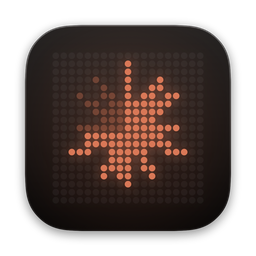
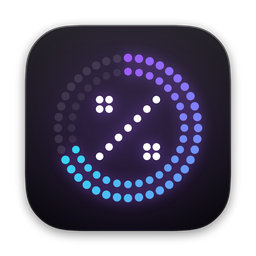
Ícone neutro: medidor de pontos roxo→ciano com % (não é o símbolo de nenhuma IA)

Changed region(s): [[0.1875, 0.1562, 0.8438, 0.8438]]

diff --git a/scripts/make-icon.swift b/scripts/make-icon.swift
@@ -3,7 +3,11 @@ import SwiftUI
 import AppKit
 
 let purple = Color(red: 0.62, green: 0.36, blue: 1.0)
-let claude = Color(red: 0.85, green: 0.47, blue: 0.34)   // terracota
+let cyan = Color(red: 0.20, green: 0.85, blue: 0.95)
+/// Roxo → ciano ao longo do anel.
+func mix(_ t: Double) -> Color {
+    Color(red: 0.62 + (0.20 - 0.62) * t, green: 0.36 + (0.85 - 0.36) * t, blue: 1.0 + (0.95 - 1.0) * t)
+}
 
 // "%" em 7×7 numa grade 11×11
 let glyph = ["##....#", "##...#.", "....#..", "...#...", "..#....", ".#...##", "#....##"]
@@ -20,7 +24,7 @@ struct DotIcon: View {
                 .fill(LinearGradient(colors: [Color(white: 0.13), Color(white: 0.02)], startPoint: .top, endPoint: .bottom))
                 .overlay {
                     RoundedRectangle(cornerRadius: radius, style: .continuous)
-                        .fill(RadialGradient(colors: [claude.opacity(0.22), .clear], center: .init(x: 0.5, y: 0.5), startRadius: 0, endRadius: shape * 0.7))
+                        .fill(RadialGradient(colors: [purple.opacity(0.25), .clear], center: .init(x: 0.5, y: 0.5), startRadius: 0, endRadius: shape * 0.7))
                 }
                 .overlay {
                     if !fullBleed {
@@ -32,52 +36,37 @@ struct DotIcon: View {
                 .shadow(color: .black.opacity(fullBleed ? 0 : 0.45), radius: size * 0.02, y: size * 0.012)
 
             Canvas { ctx, s in
-                // Sol de raios (estilo do símbolo do Claude) amostrado numa grade de pontos.
-                // Aceso no sentido horário a partir das 12h até `filled`, como um ponteiro de relógio.
-                let n = 19
-                let cell = s.width / CGFloat(n)
-                let dot = cell * 0.82
-                let c = Double(n) / 2
-                let filled = 0.72
-                let rays: [(angle: Double, length: Double)] = (0..<12).map { i in
-                    let jitter = [0.0, 5, -4, 3, -5, 2, 4, -3, 4, -4, 1, -2][i]
-                    let length = [8.6, 7.4, 8.2, 7.0, 8.8, 7.6, 8.0, 7.2, 8.6, 7.4, 8.2, 7.8][i]
-                    return ((Double(i) * 30 + jitter) * .pi / 180, length)
-                }
-                func inside(_ px: Double, _ py: Double) -> Bool {
-                    let dx = px - c, dy = py - c
-                    let d = (dx * dx + dy * dy).squareRoot()
-                    if d <= 1.4 { return true }
-                    for r in rays {
-                        // Projeção no eixo do raio (0 = topo, sentido horário).
-                        let ux = sin(r.angle), uy = -cos(r.angle)
-                        let along = dx * ux + dy * uy
-                        let across = abs(dx * uy - dy * ux)
-                        guard along > 0, along <= r.length else { continue }
-                        let half = 0.95 * (1 - along / (r.length + 0.6)) + 0.12   // afina na ponta
-                        if across <= half { return true }
+                // Medidor genérico de uso: anel de pontos aceso no sentido horário (roxo → ciano)
+                // e um "%" de pontos no centro. Não é o símbolo de nenhuma IA.
+                let c = CGPoint(x: s.width / 2, y: s.height / 2)
+                let filled = 0.7
+                for (ring, radius, count, dot) in [(0, 0.46, 40, 0.055), (1, 0.37, 32, 0.05)] {
+                    for i in 0..<count {
+                        let f = Double(i) / Double(count)
+                        let a = f * 2 * .pi - .pi / 2
+                        let r = Double(s.width) * radius
+                        let p = CGPoint(x: c.x + CGFloat(r * cos(a)), y: c.y + CGFloat(r * sin(a)))
+                        let d = s.width * dot
+                        let lit = f < filled
+                        let color: Color = lit ? mix(f / filled) : .white.opacity(ring == 0 ? 0.10 : 0.07)
+                        ctx.fill(Path(ellipseIn: CGRect(x: p.x - d / 2, y: p.y - d / 2, width: d, height: d)), with: .color(color))
                     }
-                    return false
                 }
-                for y in 0..<n {
-                    for x in 0..<n {
-                        var hits = 0
-                        for sy in 0..<5 { for sx in 0..<5 {
-                            if inside(Double(x) + (Double(sx) + 0.5) / 5, Double(y) + (Double(sy) + 0.5) / 5) { hits += 1 }
-                        } }
-                        let inShape = hits >= 8
-                        let dx = Double(x) + 0.5 - c, dy = Double(y) + 0.5 - c
-                        var sweep = atan2(dx, -dy)
-                        if sweep < 0 { sweep += 2 * .pi }
-                        let lit = sweep / (2 * .pi) <= filled
-                        let color: Color = inShape ? (lit ? claude : claude.opacity(0.34)) : .white.opacity(0.04)
-                        let r = CGRect(x: CGFloat(x) * cell + (cell - dot) / 2, y: CGFloat(y) * cell + (cell - dot) / 2, width: dot, height: dot)
-                        ctx.fill(Path(ellipseIn: r), with: .color(color))
+                // "%" em pontos no meio.
+                let glyph = ["##....#", "##...#.", "....#..", "...#...", "..#....", ".#...##", "#....##"]
+                let cell = s.width * 0.062
+                let ox = c.x - cell * 3.5, oy = c.y - cell * 3.5
+                for (y, row) in glyph.enumerated() {
+                    for (x, ch) in row.enumerated() where ch == "#" {
+                        let d = cell * 0.8
+                        ctx.fill(Path(ellipseIn: CGRect(x: ox + CGFloat(x) * cell + (cell - d) / 2,
+                                                        y: oy + CGFloat(y) * cell + (cell - d) / 2, width: d, height: d)),
+                                 with: .color(.white))
                     }
                 }
             }
             .frame(width: shape * 0.74, height: shape * 0.74)
-            .shadow(color: claude.opacity(0.6), radius: shape * 0.03)
+            .shadow(color: purple.opacity(0.6), radius: shape * 0.03)
         }
         .frame(width: size, height: size)
     }
